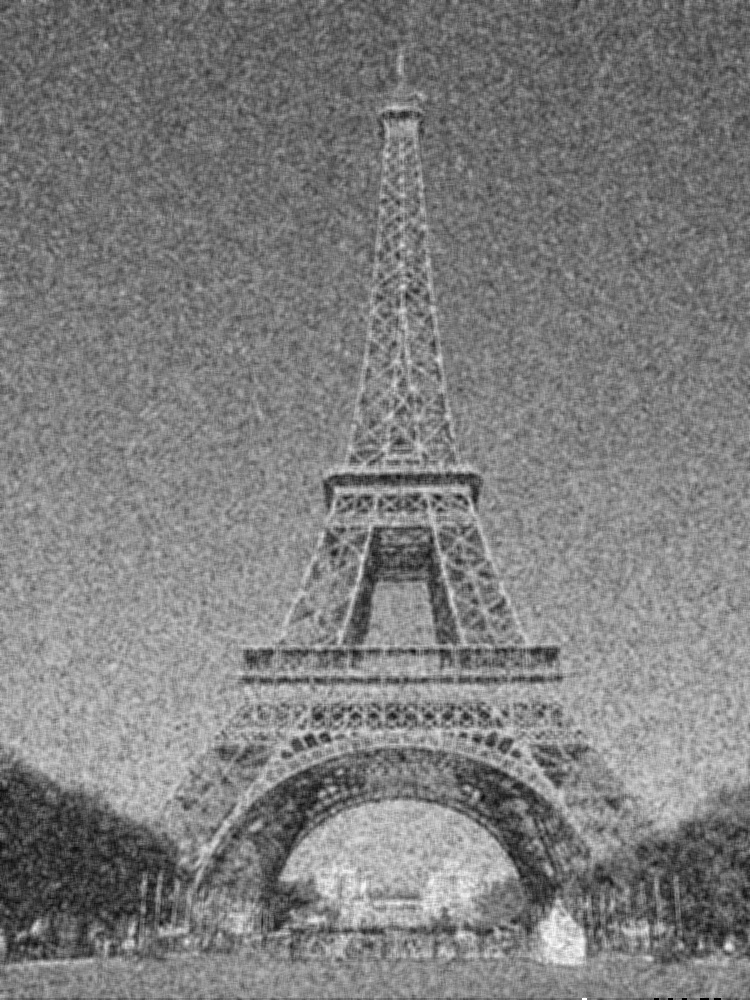
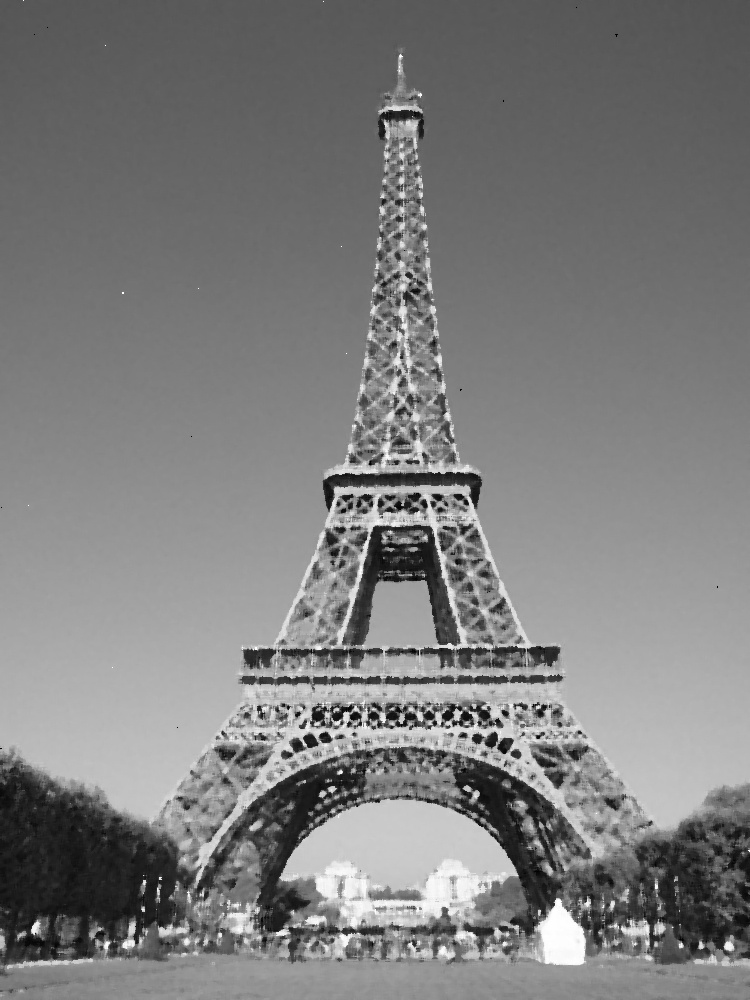
better use median as first filter technique

diff --git a/DIP2/Dip2.cpp b/DIP2/Dip2.cpp
@@ -20,13 +20,13 @@ float Dip2::spatialConvolutionAppliedOnSinglePixel(Mat& src, Mat& kernel, int x,
     for (int i = -kernel.rows/2; i <= kernel.rows/2; i++) {
         for (int j = -kernel.cols/2; j <= kernel.cols/2; j++) {
             int srcX = x + i, srcY = y + j;
-            
+
             // border handling: mirroring
             if (srcX < 0) srcX = -srcX;
             if (srcY < 0) srcY = -srcY;
             if (srcX >= src.rows) srcX = 2 * src.rows - srcX - 1;
             if (srcY >= src.cols) srcY = 2 * src.cols - srcY - 1;
-            
+
             sum += src.at<float>(srcX, srcY) * kernel.at<float>(i + kernel.rows/2, j+kernel.cols/2);
         }
     }
@@ -94,7 +94,7 @@ Mat Dip2::adaptiveFilter(Mat& src, int kSize, double threshold){
   //create kernel
   Mat kernel_KSize = Mat::ones(kSize, kSize, CV_32FC1)*(1.0/(kSize*kSize));
   Mat kernel_3Size = Mat::ones(3, 3, CV_32FC1)*(1.0/9);
-    
+
   //kernel flip not necessary because kernel is uniform
   kernel_KSize = flipKernel(kernel_KSize);
   kernel_3Size = flipKernel(kernel_3Size);
@@ -104,7 +104,7 @@ Mat Dip2::adaptiveFilter(Mat& src, int kSize, double threshold){
       for (int y = 0; y < src.cols; y++) {
           float result_KSize = spatialConvolutionAppliedOnSinglePixel(src, kernel_KSize, x, y);
           float result_3Size = spatialConvolutionAppliedOnSinglePixel(src, kernel_3Size, x, y);
-          
+
           //consider threshold
           if (abs(result_3Size - result_KSize) <= threshold){
               result.at<float>(x, y) = result_KSize;
@@ -201,7 +201,7 @@ void Dip2::run(void){
   // ==> "average" or "median"? Why?
   // ==> try also "adaptive" (and if implemented "bilateral")
   cout << "reduce noise" << endl;
-  Mat restorated1 = noiseReduction(noise1, "average", 5);
+  Mat restorated1 = noiseReduction(noise1, "median", 5); // the result looks better with 'median'
   Mat restorated2 = noiseReduction(noise2, "adaptive", 17, 30.0);
   cout << "done" << endl;
 
